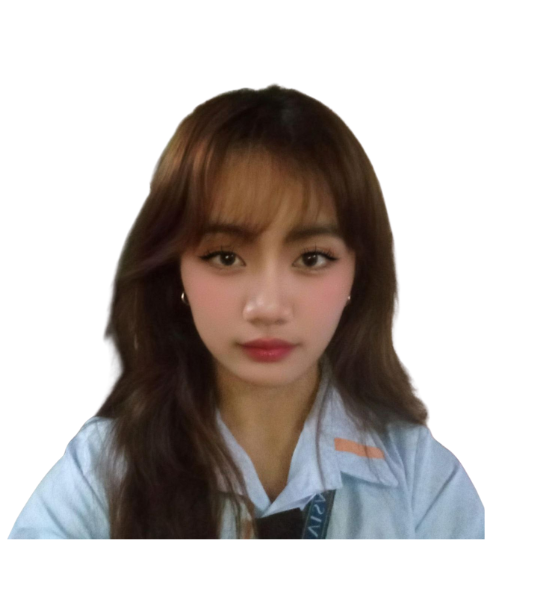
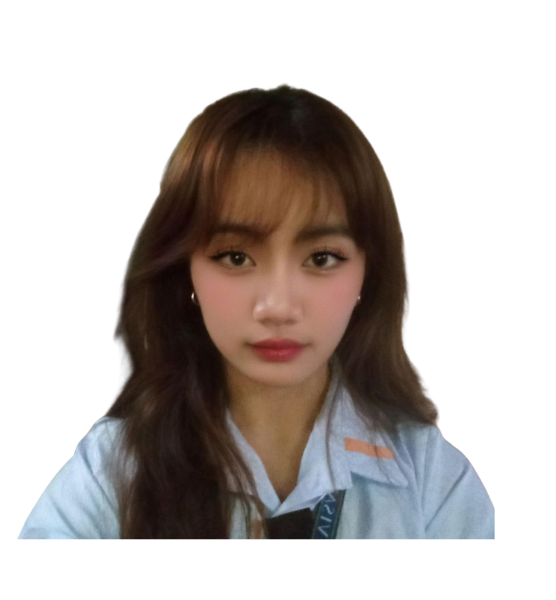
Added my Portfolio

diff --git a/index.html b/index.html
@@ -62,7 +62,7 @@
                             </mask>
                         <g mask="url(#mask0)">
                                 <path d="M9.19024 145.964C34.0253 76.5814 114.865 54.7299 184.111 29.4823C245.804 6.98884 311.86 -14.9503 370.735 14.143C431.207 44.026 467.948 107.508 477.191 174.311C485.897 237.229 454.931 294.377 416.506 344.954C373.74 401.245 326.068 462.801 255.442 466.189C179.416 469.835 111.552 422.137 65.1576 361.805C17.4835 299.81 -17.1617 219.583 9.19024 145.964Z"/>
-                            <image class="home__blob-img" x="20" y="79" href="assets/img/Jazylle.png"/>
+                            <image class="home__blob-img" x="10" y="1" href="assets/img/J1.png"/>
                         </g>
                     </svg>
                 </div>
@@ -74,7 +74,7 @@
 
                 <div class="about__container bd-grid">
                     <div class="about__img">
-                        <img src="assets/img/Jazylle2.png" alt="">
+                        <img src="assets/img/J2.png" alt="">
                     </div>
                     
                     <div class="get_to_know">

diff --git a/assets/css/styles.css b/assets/css/styles.css
@@ -232,7 +232,7 @@ img {
 }
 
 .home__blob-img {
-  width: 400px;
+  width: 480px;
 }
 
 /* BUTTON */

diff --git a/README.md b/README.md
@@ -1,0 +1,8 @@
+CC 206 Applications Development and Emerging Technologies
+Assignment 4
+Senibalo, Jazylle Mae B.
+BSCS 3-B AI
+
+- A curated space where I showcase my projects, technical skills, and creative explorations in both logic and design. Built using HTML, CSS, and JavaScript, this portfolio shows how I’m growing, adapting, and discovering what it means to build digital experiences that truly connect with people.
+
+![preview img](/preview.png)
